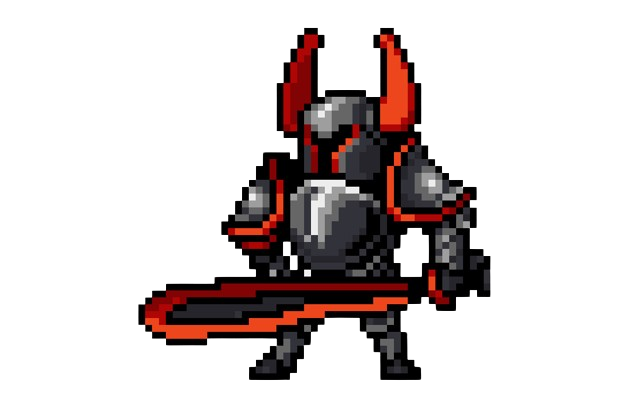
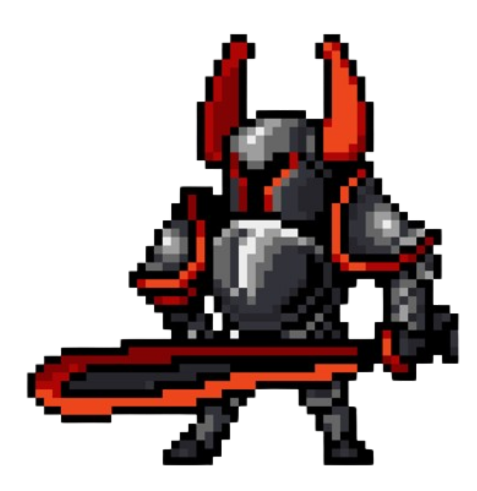
finalização do projeto, adicionadas imagens faltantes, e lógicas faltantes

diff --git a/Epic_Prompt/front_end/src/app/Layout/home/fase-9/fase-9.component.ts b/Epic_Prompt/front_end/src/app/Layout/home/fase-9/fase-9.component.ts
@@ -42,7 +42,7 @@ export class Fase9Component  implements OnInit{
     this.carregaVilao();
     this.calcularPorcentagemVida(1);
     this.calcularPorcentagemVida(2);
-    this.curaProfunda = 0;
+    this.curaProfunda = -1;
   }
 
   carregaJogador(){
@@ -85,13 +85,17 @@ export class Fase9Component  implements OnInit{
 
   heroiAtaca(){
     let log: LogAcoes;
-    let acaoVilao = this.vilaoRelizaAcao();
+    let ataqueTemp: number;
     if(this.curaProfunda > 0){
+      ataqueTemp = this.vilao.ataque*1.2;
       this.curaProfunda--;
+    }else{
+      ataqueTemp = this.vilao.ataque;
     }
+    let acaoVilao = this.vilaoRelizaAcao();
     if(acaoVilao == 0){
-      if(this.vilao.ataque - this.heroi.defesa > 0){
-        this.vidaAtualHeroi -= (this.vilao.ataque - this.heroi.defesa);
+      if(ataqueTemp - this.heroi.defesa > 0){
+        this.vidaAtualHeroi -= (ataqueTemp - this.heroi.defesa);
       }
       if(this.heroi.ataque - this.vilao.defesa > 0){
         this.vidaAtualVilao -= this.heroi.ataque - this.vilao.defesa;
@@ -123,13 +127,17 @@ export class Fase9Component  implements OnInit{
 
   heroiDefende(){
     let log: LogAcoes;
-    let acaoVilao = this.vilaoRelizaAcao();
+    let ataqueTemp: number;
     if(this.curaProfunda > 0){
+      ataqueTemp = this.vilao.ataque*1.2;
       this.curaProfunda--;
+    }else{
+      ataqueTemp = this.vilao.ataque;
     }
+    let acaoVilao = this.vilaoRelizaAcao();
     if(acaoVilao == 0){
-      if(this.vilao.ataque - (this.heroi.defesa*2) > 0){
-        this.vidaAtualHeroi -= (this.vilao.ataque - (this.heroi.defesa*2));
+      if(ataqueTemp - (this.heroi.defesa*2) > 0){
+        this.vidaAtualHeroi -= (ataqueTemp - (this.heroi.defesa*2));
       }
       log = {
         acaoHeroi: 'Defendeu',
@@ -151,10 +159,10 @@ export class Fase9Component  implements OnInit{
   }
 
   vilaoRelizaAcao(){
-    if(this.vidaAtualVilao <= this.vilao.vida * 0.35 && this.curaProfunda == 0){
+    if(this.vidaAtualVilao <= this.vilao.vida * 0.35 && this.curaProfunda == -1){
       //Vilão realiza ataque especial
-      this.vidaAtualVilao += this.vilao.vida*0.20;
-      this.curaProfunda = 4;
+      this.vidaAtualVilao += this.vilao.vida*0.50;
+      this.curaProfunda = 3;
       return -1;
 
     }else{
@@ -169,6 +177,13 @@ export class Fase9Component  implements OnInit{
       }
     }
   }
+
+  verificaAtaque(){
+    if(this.curaProfunda<=0){
+      return true
+    }
+    return false;
+  }
   
   verificaFimLuta(){
     if(this.vidaAtualVilao <= 0){
@@ -176,7 +191,7 @@ export class Fase9Component  implements OnInit{
         this.heroiController.levelUp(this.vilao.dropXP, this.heroi).subscribe(res => {
           this.heroi = res;
           this.router.navigateByUrl(`/home/${this.heroi.id}`);
-          this.snackbarService.openSnackBar('Parabéns, você ganhou sua batalha e ganhou expêriencia para avançar em sua jornada', 'Entendi')
+          this.snackbarService.openSnackBar('Parabéns, você subiu de nível, continue em sua jornada', 'Entendi')
         })
       }else{
         this.heroiController.ganhaXP(this.vilao.dropXP, this.heroi).subscribe(res => {

diff --git a/Epic_Prompt/front_end/src/app/Layout/home/fase-1/fase-1.component.ts b/Epic_Prompt/front_end/src/app/Layout/home/fase-1/fase-1.component.ts
@@ -158,6 +158,7 @@ export class Fase1Component implements OnInit{
     this.verificaFimLuta();
   }
 
+  //Caso o heroi defenda, essa função gerencia os proximos passos, mesma lógica da de ataque basicamente.
   heroiDefende(){
     let log: LogAcoes;
     let acaoVilao = this.vilaoRelizaAcao();
@@ -187,6 +188,7 @@ export class Fase1Component implements OnInit{
     this.verificaFimLuta();
   }
 
+  //Aqui é quando o vilão realiza a ação
   vilaoRelizaAcao(){
     if(this.vidaAtualVilao <= this.vilao.vida * 0.3 && this.marcadorDanoReduzido == 0){
       //Vilão realiza ataque especial
@@ -206,6 +208,7 @@ export class Fase1Component implements OnInit{
     }
   }
 
+  //Verifica o ataque, para ver se o ataque do heroi foi reduzido
   verificaAtaque(){
     if(this.marcadorDanoReduzido==0){
       return true
@@ -213,15 +216,19 @@ export class Fase1Component implements OnInit{
     return false;
   }
   
+  //Verifica o fim da luta, para ver se a luta chegou ao fim
   verificaFimLuta(){
     if(this.vidaAtualVilao <= 0){
+      //Aqui caso o heroi vença
       if(this.heroi.xpAtual + this.vilao.dropXP >= this.heroi.barraXP){
+        //Se o drop de xp for suficiente para subir de nível ele chama função de upar
         this.heroiController.levelUp(this.vilao.dropXP, this.heroi).subscribe(res => {
           this.heroi = res;
           this.router.navigateByUrl(`/home/${this.heroi.id}`);
-          this.snackbarService.openSnackBar('Parabéns, você ganhou sua batalha e ganhou expêriencia para avançar em sua jornada', 'Entendi')
+          this.snackbarService.openSnackBar('Parabéns, você subiu de nível, continue em sua jornada', 'Entendi')
         })
       }else{
+        //se não ele apenas ganha experiência
         this.heroiController.ganhaXP(this.vilao.dropXP, this.heroi).subscribe(res => {
           this.heroi = res;
           this.router.navigateByUrl(`/home/${this.heroi.id}`);
@@ -229,6 +236,7 @@ export class Fase1Component implements OnInit{
         })
       }
     }
+    //Aqui se o heroi perder
     if(this.vidaAtualHeroi <= 0){
       this.router.navigateByUrl(`/home/${this.heroi.id}`);
       this.snackbarService.openSnackBar('Derrota, infelizmente você perdeu a sua batalha contra o vilão', 'Entendi')

diff --git a/Epic_Prompt/front_end/src/app/Layout/home/fase-10/fase-10.component.ts b/Epic_Prompt/front_end/src/app/Layout/home/fase-10/fase-10.component.ts
@@ -86,9 +86,6 @@ export class Fase10Component  implements OnInit{
   heroiAtaca(){
     let log: LogAcoes;
     let acaoVilao = this.vilaoRelizaAcao();
-    if(this.aniquilaçãoTotal > 0){
-      this.aniquilaçãoTotal--;
-    }
     if(acaoVilao == 0){
       if(this.vilao.ataque - this.heroi.defesa > 0){
         this.vidaAtualHeroi -= (this.vilao.ataque - this.heroi.defesa);
@@ -124,9 +121,6 @@ export class Fase10Component  implements OnInit{
   heroiDefende(){
     let log: LogAcoes;
     let acaoVilao = this.vilaoRelizaAcao();
-    if(this.aniquilaçãoTotal > 0){
-      this.aniquilaçãoTotal--;
-    }
     if(acaoVilao == 0){
       if(this.vilao.ataque - (this.heroi.defesa*2) > 0){
         this.vidaAtualHeroi -= (this.vilao.ataque - (this.heroi.defesa*2));
@@ -151,16 +145,16 @@ export class Fase10Component  implements OnInit{
   }
 
   vilaoRelizaAcao(){
-    if(this.vidaAtualVilao <= this.vilao.vida * 0.35 && this.aniquilaçãoTotal == 0){
+    if(this.vidaAtualVilao <= this.vilao.vida * 0.30 && this.aniquilaçãoTotal == 0){
       //Vilão realiza ataque especial
-      this.vidaAtualVilao += this.vilao.vida*0.20;
-      this.aniquilaçãoTotal = 4;
+      this.vidaAtualHeroi -= 80;
+      this.aniquilaçãoTotal = 1;
       return -1;
 
     }else{
       //Vilão realiza ação normal
       const randomNumber = Math.floor(Math.random() * 2);
-      if (randomNumber === 0 || this.aniquilaçãoTotal > 0) {
+      if (randomNumber === 0) {
         //vilão ataca
         return 0;
       } else {
@@ -176,7 +170,7 @@ export class Fase10Component  implements OnInit{
         this.heroiController.levelUp(this.vilao.dropXP, this.heroi).subscribe(res => {
           this.heroi = res;
           this.router.navigateByUrl(`/home/${this.heroi.id}`);
-          this.snackbarService.openSnackBar('Parabéns, você ganhou sua batalha e ganhou expêriencia para avançar em sua jornada', 'Entendi')
+          this.snackbarService.openSnackBar('Parabés, você derrotou todos os vilões da terra de Promt. O reino está em paz, mas você pode continuar enfrentando os vilões caso deseje.', 'Entendi')
         })
       }else{
         this.heroiController.ganhaXP(this.vilao.dropXP, this.heroi).subscribe(res => {

diff --git a/Epic_Prompt/front_end/src/app/Layout/home/fase-9/fase-9.component.html b/Epic_Prompt/front_end/src/app/Layout/home/fase-9/fase-9.component.html
@@ -1,10 +1,10 @@
 <div class="container" style="display: flex; flex-direction: column; align-items: center;">
-    <h1>Vilão Cura Profunda</h1>
+    <h1>Vilão da Cura Profunda</h1>
     <div class="row">
         <div class="col-6">
             <div class="barraVida">
                 <div class="valorVida" [style.width.%]="calcularPorcentagemVida(1)">
-                    Vida: {{ vidaAtualHeroi }} / {{ vidaMaximaHeroi }}
+                    Vida: {{ vidaAtualHeroi?.toFixed(2)  }} / {{ vidaMaximaHeroi }}
                 </div>
             </div>
             <img width="75%" style="margin-bottom: 20px; margin-top: 20px;" src="../../../assets/Images/Cavaleiro.png" alt="img">
@@ -30,7 +30,7 @@
         <div class="col-6">
             <div class="barraVida">
                 <div class="valorVida" [style.width.%]="calcularPorcentagemVida(2)">
-                    Vida: {{ vidaAtualVilao }} / {{ vidaMaximaVilao }}
+                    Vida: {{ vidaAtualVilao?.toFixed(2)  }} / {{ vidaMaximaVilao }}
                 </div>
             </div>
             <img width="75%" style="margin-bottom: 20px; margin-top: 20px;" src="../../../../assets/Images/cavaleiro_fase_9.png" alt="img">
@@ -45,6 +45,10 @@
                     <tr>
                         <th scope="row">Ataque</th>
                         <td>{{vilao?.ataque}}</td>
+                    </tr>
+                    <tr *ngIf="!verificaAtaque()">
+                        <th scope="row">Ataque</th>
+                        <td style="color: red;">{{vilao?.ataque*1.2}} dano aumentado</td>
                     </tr>
                     <tr>
                         <th scope="row">Defesa</th>

diff --git a/Epic_Prompt/front_end/src/app/Layout/home/fase-10/fase-10.component.html b/Epic_Prompt/front_end/src/app/Layout/home/fase-10/fase-10.component.html
@@ -1,10 +1,10 @@
 <div class="container" style="display: flex; flex-direction: column; align-items: center;">
-    <h1>Vilão Aniquilação Total</h1>
+    <h1>Vilão da Aniquilação Total</h1>
     <div class="row">
         <div class="col-6">
             <div class="barraVida">
                 <div class="valorVida" [style.width.%]="calcularPorcentagemVida(1)">
-                    Vida: {{ vidaAtualHeroi }} / {{ vidaMaximaHeroi }}
+                    Vida: {{ vidaAtualHeroi?.toFixed(2)  }} / {{ vidaMaximaHeroi }}
                 </div>
             </div>
             <img width="75%" style="margin-bottom: 20px; margin-top: 20px;" src="../../../assets/Images/Cavaleiro.png" alt="img">
@@ -30,7 +30,7 @@
         <div class="col-6">
             <div class="barraVida">
                 <div class="valorVida" [style.width.%]="calcularPorcentagemVida(2)">
-                    Vida: {{ vidaAtualVilao }} / {{ vidaMaximaVilao }}
+                    Vida: {{ vidaAtualVilao?.toFixed(2)  }} / {{ vidaMaximaVilao }}
                 </div>
             </div>
             <img width="75%" style="margin-bottom: 20px; margin-top: 20px;" src="../../../../assets/Images/cavaleiro_fase_10.png" alt="img">

diff --git a/Epic_Prompt/front_end/src/app/Layout/home/fase-8/fase-8.component.html b/Epic_Prompt/front_end/src/app/Layout/home/fase-8/fase-8.component.html
@@ -1,10 +1,10 @@
 <div class="container" style="display: flex; flex-direction: column; align-items: center;">
-    <h1>Vilão Vortex das Sombras</h1>
+    <h1>Vilão do Vortex das Sombras</h1>
     <div class="row">
         <div class="col-6">
             <div class="barraVida">
                 <div class="valorVida" [style.width.%]="calcularPorcentagemVida(1)">
-                    Vida: {{ vidaAtualHeroi }} / {{ vidaMaximaHeroi }}
+                    Vida: {{ vidaAtualHeroi?.toFixed(2)  }} / {{ vidaMaximaHeroi }}
                 </div>
             </div>
             <img width="75%" style="margin-bottom: 20px; margin-top: 20px;" src="../../../assets/Images/Cavaleiro.png" alt="img">
@@ -30,7 +30,7 @@
         <div class="col-6">
             <div class="barraVida">
                 <div class="valorVida" [style.width.%]="calcularPorcentagemVida(2)">
-                    Vida: {{ vidaAtualVilao }} / {{ vidaMaximaVilao }}
+                    Vida: {{ vidaAtualVilao?.toFixed(2)  }} / {{ vidaMaximaVilao }}
                 </div>
             </div>
             <img width="75%" style="margin-bottom: 20px; margin-top: 20px;" src="../../../../assets/Images/cavaleiro_fase_8.png" alt="img">

diff --git a/Epic_Prompt/front_end/src/app/Layout/home/fase-5/fase-5.component.ts b/Epic_Prompt/front_end/src/app/Layout/home/fase-5/fase-5.component.ts
@@ -69,7 +69,7 @@ export class Fase5Component implements OnInit {
   }
 
   carregaVilao(){
-    this.vilaoController.getVilao(4).subscribe(res => {
+    this.vilaoController.getVilao(5).subscribe(res => {
       this.vilao = res;
       this.vidaAtualVilao = this.vilao.vida;
       this.vidaMaximaVilao = this.vilao.vida;
@@ -196,7 +196,7 @@ export class Fase5Component implements OnInit {
         this.heroiController.levelUp(this.vilao.dropXP, this.heroi).subscribe(res => {
           this.heroi = res;
           this.router.navigateByUrl(`/home/${this.heroi.id}`);
-          this.snackbarService.openSnackBar('Parabéns, você ganhou sua batalha e ganhou expêriencia para avançar em sua jornada', 'Entendi')
+          this.snackbarService.openSnackBar('Parabéns, você subiu de nível, continue em sua jornada', 'Entendi')
         })
       }else{
         this.heroiController.ganhaXP(this.vilao.dropXP, this.heroi).subscribe(res => {

diff --git a/Epic_Prompt/front_end/src/app/Layout/home/fase-8/fase-8.component.ts b/Epic_Prompt/front_end/src/app/Layout/home/fase-8/fase-8.component.ts
@@ -168,17 +168,13 @@ vilaoRelizaAcao(){
   }
 }
 
-
- 
-
-//-----------------------------------------------------------------------------------
   verificaFimLuta(){
     if(this.vidaAtualVilao <= 0){
       if(this.heroi.xpAtual + this.vilao.dropXP >= this.heroi.barraXP){
         this.heroiController.levelUp(this.vilao.dropXP, this.heroi).subscribe(res => {
           this.heroi = res;
           this.router.navigateByUrl(`/home/${this.heroi.id}`);
-          this.snackbarService.openSnackBar('Parabéns, você ganhou sua batalha e ganhou expêriencia para avançar em sua jornada', 'Entendi')
+          this.snackbarService.openSnackBar('Parabéns, você subiu de nível, continue em sua jornada', 'Entendi')
         })
       }else{
         this.heroiController.ganhaXP(this.vilao.dropXP, this.heroi).subscribe(res => {

diff --git a/Epic_Prompt/front_end/src/app/Layout/home/fase-7/fase-7.component.html b/Epic_Prompt/front_end/src/app/Layout/home/fase-7/fase-7.component.html
@@ -1,5 +1,5 @@
 <div class="container" style="display: flex; flex-direction: column; align-items: center;">
-    <h1>Vilão do Armadura de Gelo</h1>
+    <h1>Vilão da Armadura de Gelo</h1>
     <div class="row">
         <div class="col-6">
             <div class="barraVida">
@@ -34,7 +34,7 @@
                 </div>
             </div>
             <p *ngIf="!verificaAtaque()" style="margin: 0;">Sob efeito de Armadura de Gelo</p>
-            <img width="75%" style="margin-bottom: 20px; margin-top: 20px;" src="../../../../assets/Images/Cavaleiro.png" alt="img">
+            <img width="75%" style="margin-bottom: 20px; margin-top: 20px;" src="../../../../assets/Images/cavaleiro_fase_7.png" alt="img">
             <table class="table">
                 <thead>
                     <tr>

diff --git a/Epic_Prompt/front_end/src/app/Layout/home/fase-4/fase-4.component.ts b/Epic_Prompt/front_end/src/app/Layout/home/fase-4/fase-4.component.ts
@@ -176,7 +176,7 @@ export class Fase4Component  implements OnInit{
         this.heroiController.levelUp(this.vilao.dropXP, this.heroi).subscribe(res => {
           this.heroi = res;
           this.router.navigateByUrl(`/home/${this.heroi.id}`);
-          this.snackbarService.openSnackBar('Parabéns, você ganhou sua batalha e ganhou expêriencia para avançar em sua jornada', 'Entendi')
+          this.snackbarService.openSnackBar('Parabéns, você subiu de nível, continue em sua jornada', 'Entendi')
         })
       }else{
         this.heroiController.ganhaXP(this.vilao.dropXP, this.heroi).subscribe(res => {

diff --git a/Epic_Prompt/front_end/src/app/Layout/home/fase-6/fase-6.component.ts b/Epic_Prompt/front_end/src/app/Layout/home/fase-6/fase-6.component.ts
@@ -214,7 +214,7 @@ export class Fase6Component implements OnInit {
         this.heroiController.levelUp(this.vilao.dropXP, this.heroi).subscribe(res => {
           this.heroi = res;
           this.router.navigateByUrl(`/home/${this.heroi.id}`);
-          this.snackbarService.openSnackBar('Parabéns, você ganhou sua batalha e ganhou expêriencia para avançar em sua jornada', 'Entendi')
+          this.snackbarService.openSnackBar('Parabéns, você subiu de nível, continue em sua jornada', 'Entendi')
         })
       }else{
         this.heroiController.ganhaXP(this.vilao.dropXP, this.heroi).subscribe(res => {

diff --git a/Epic_Prompt/front_end/src/app/Layout/home/fase-7/fase-7.component.ts b/Epic_Prompt/front_end/src/app/Layout/home/fase-7/fase-7.component.ts
@@ -184,7 +184,7 @@ export class Fase7Component implements OnInit {
         this.heroiController.levelUp(this.vilao.dropXP, this.heroi).subscribe(res => {
           this.heroi = res;
           this.router.navigateByUrl(`/home/${this.heroi.id}`);
-          this.snackbarService.openSnackBar('Parabéns, você ganhou sua batalha e ganhou expêriencia para avançar em sua jornada', 'Entendi')
+          this.snackbarService.openSnackBar('Parabéns, você subiu de nível, continue em sua jornada', 'Entendi')
         })
       }else{
         this.heroiController.ganhaXP(this.vilao.dropXP, this.heroi).subscribe(res => {
